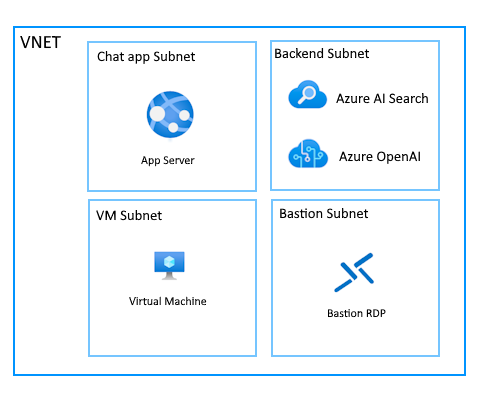
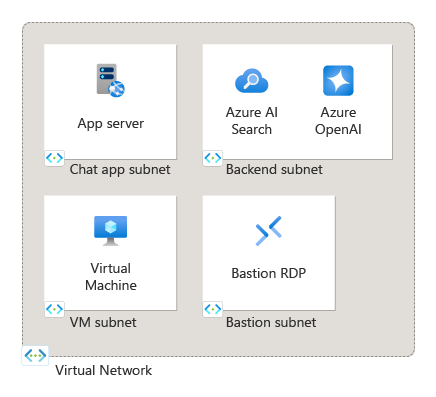
AI- PI - private endpoints - new images

diff --git a/articles/python/get-started-app-chat-private-endpoint.md b/articles/python/get-started-app-chat-private-endpoint.md
@@ -34,7 +34,7 @@ For chat apps enriched with private data, securing access to your chat app is cr
 
 Now that the virtual machine is in the same virtual network, use Azure Bastion to connect. From the Azure portal, use the VM remote desktop (RDP) to access the chat app. The VM is a Windows server with a Microsoft Edge browser. Use the same chat app endpoint, just through the VM's browser.
 
-:::image type="content" source="media/get-started-app-chat-private-endpoints/simple-architecture-diagram-vpn-chat-app.png" lightbox="media/get-started-app-chat-private-endpoints/simple-architecture-diagram-vpn-chat-app.png" alt-text="Diagram showing network architecture using Azure Bastion to RDP connect to private virtual machine which connects to the Chat app.":::
+:::image type="content" source="media/get-started-app-chat-private-endpoints/diagram-azure-bastion-private-endpoint.png" lightbox="media/get-started-app-chat-private-endpoints/diagram-azure-bastion-private-endpoint.png" alt-text="Diagram showing network architecture using Azure Bastion to RDP connect to private virtual machine which connects to the Chat app.":::
 
 ## Deployment steps
 
